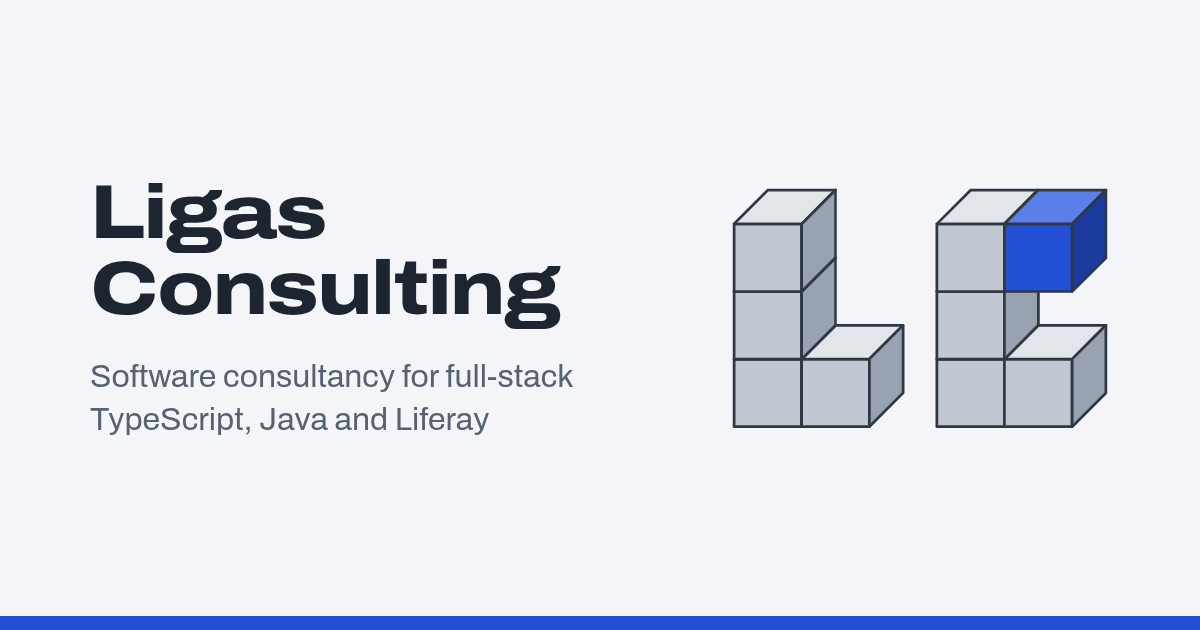
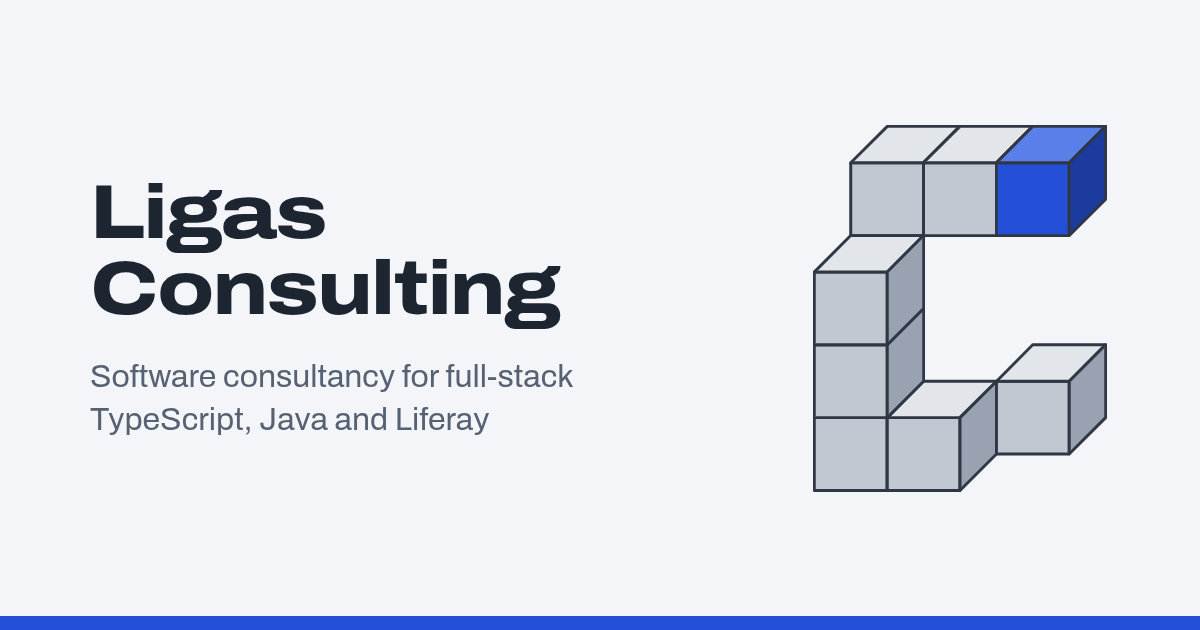
Rework the LC mark to keep the original overlap
The L stands in front with a three-cube stem and foot; the C's top arm
and lower tip sit one depth step behind and share the L's stem, as in
the original logo.

Changed region(s): [[0.5858, 0.181, 0.925, 0.7841]]

diff --git a/index.html b/index.html
@@ -21,12 +21,12 @@
     <meta property="og:image" content="https://www.ligasconsulting.com/img/og.png">
     <meta property="og:image:width" content="1200">
     <meta property="og:image:height" content="630">
-    <meta property="og:image:alt" content="Ligas Consulting logo, the letters L and C built from cubes, beside the text: software consultancy for full-stack TypeScript, Java and Liferay">
+    <meta property="og:image:alt" content="Ligas Consulting logo, the letters L and C built from overlapping cubes, beside the text: software consultancy for full-stack TypeScript, Java and Liferay">
     <meta name="twitter:card" content="summary_large_image">
     <meta name="twitter:title" content="Ligas Consulting | React, Node.js, Java and Liferay consultancy">
     <meta name="twitter:description" content="We build full-stack TypeScript, Java and Liferay software on AWS and Azure, using AI-enhanced, human-guided development, and train the teams who run it.">
     <meta name="twitter:image" content="https://www.ligasconsulting.com/img/og.png">
-    <meta name="twitter:image:alt" content="Ligas Consulting logo, the letters L and C built from cubes, beside the text: software consultancy for full-stack TypeScript, Java and Liferay">
+    <meta name="twitter:image:alt" content="Ligas Consulting logo, the letters L and C built from overlapping cubes, beside the text: software consultancy for full-stack TypeScript, Java and Liferay">
 
     <link rel="icon" href="/favicon.ico" sizes="48x48">
     <link rel="icon" href="img/mark.svg" type="image/svg+xml">
@@ -352,7 +352,7 @@
 <header class="site-header">
     <div class="wrap site-header__inner">
         <a class="brand" href="#top" aria-label="Ligas Consulting, back to top">
-            <img src="img/mark.svg" alt="" width="34" height="22">
+            <img src="img/mark.svg" alt="" width="23" height="29">
             <span>Ligas Consulting</span>
         </a>
         <nav aria-label="Main">
@@ -379,7 +379,7 @@
                 </div>
             </div>
 
-            <svg class="mark" viewBox="-6 -6 562 362" role="img" aria-label="Ligas Consulting logo: the letters L and C built from cubes">
+            <svg class="mark" viewBox="-6 -6 412 512" role="img" aria-label="Ligas Consulting logo: the letters L and C built from overlapping cubes">
                 <defs>
                     <g id="cube">
                         <path class="mark__front" d="M0 0h100v100H0z"/>
@@ -387,16 +387,15 @@
                         <path class="mark__side" d="M100 0l50-50v100l-50 50z"/>
                     </g>
                 </defs>
-                <!-- drawn bottom row first, left to right, so each cube covers the hidden faces of its neighbours -->
-                <use class="mark__cube" style="--i:0" href="#cube" x="0" y="250"/>
-                <use class="mark__cube" style="--i:1" href="#cube" x="100" y="250"/>
-                <use class="mark__cube" style="--i:2" href="#cube" x="300" y="250"/>
-                <use class="mark__cube" style="--i:3" href="#cube" x="400" y="250"/>
-                <use class="mark__cube" style="--i:4" href="#cube" x="0" y="150"/>
-                <use class="mark__cube" style="--i:5" href="#cube" x="300" y="150"/>
-                <use class="mark__cube" style="--i:6" href="#cube" x="0" y="50"/>
-                <use class="mark__cube" style="--i:7" href="#cube" x="300" y="50"/>
-                <use class="mark__cube mark__cube--accent" style="--i:8" href="#cube" x="400" y="50"/>
+                <!-- the C sits one depth step behind the L: back cubes first, then bottom row up, left to right -->
+                <use class="mark__cube" style="--i:0" href="#cube" x="250" y="350"/>
+                <use class="mark__cube" style="--i:1" href="#cube" x="50" y="50"/>
+                <use class="mark__cube" style="--i:2" href="#cube" x="150" y="50"/>
+                <use class="mark__cube mark__cube--accent" style="--i:3" href="#cube" x="250" y="50"/>
+                <use class="mark__cube" style="--i:4" href="#cube" x="0" y="400"/>
+                <use class="mark__cube" style="--i:5" href="#cube" x="100" y="400"/>
+                <use class="mark__cube" style="--i:6" href="#cube" x="0" y="300"/>
+                <use class="mark__cube" style="--i:7" href="#cube" x="0" y="200"/>
             </svg>
         </div>
     </section>

diff --git a/css/site.css b/css/site.css
@@ -210,7 +210,7 @@ a { color: inherit; }
 
 .mark {
     width: 100%;
-    max-width: 26rem;
+    max-width: 21rem;
     justify-self: center;
     overflow: visible;
     stroke: var(--cube-edge);
@@ -548,7 +548,7 @@ a { color: inherit; }
     .mark {
         grid-row: 1;
         justify-self: start;
-        max-width: 11rem;
+        max-width: 8rem;
     }
 
     .approach__list,

diff --git a/404.html b/404.html
@@ -18,7 +18,7 @@
 <header class="site-header">
     <div class="wrap site-header__inner">
         <a class="brand" href="/">
-            <img src="/img/mark.svg" alt="" width="34" height="22">
+            <img src="/img/mark.svg" alt="" width="23" height="29">
             <span>Ligas Consulting</span>
         </a>
     </div>
